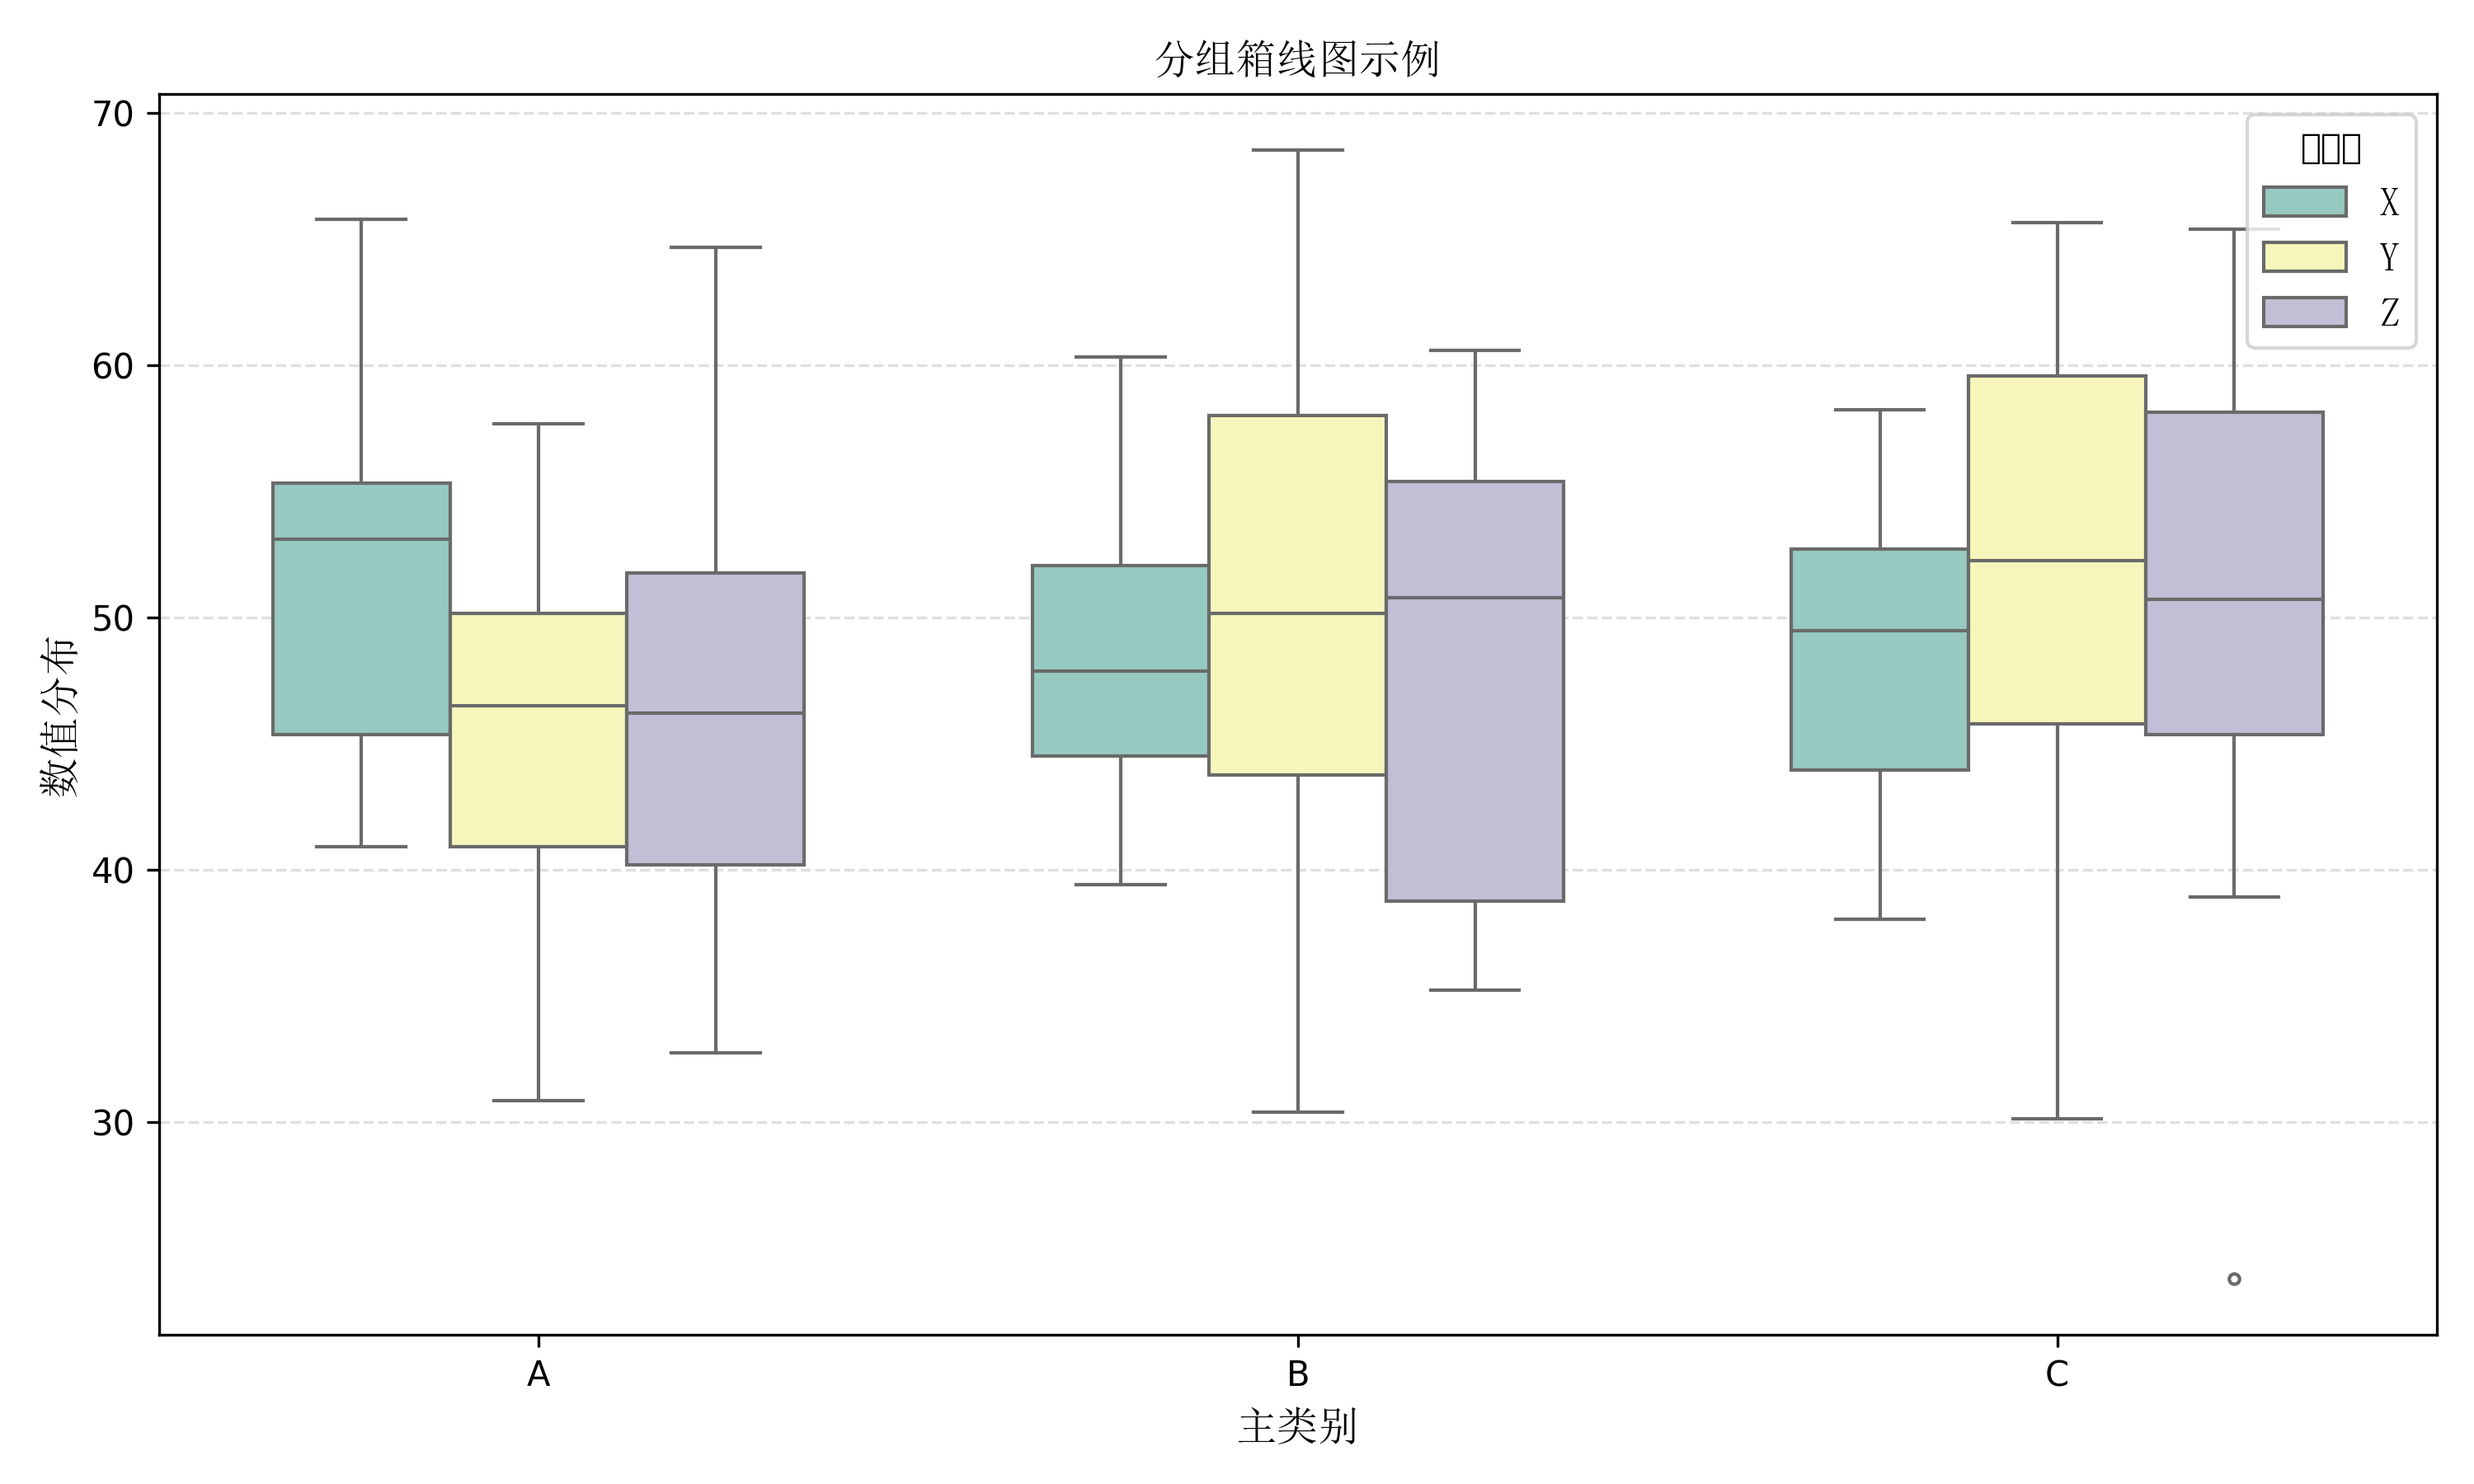
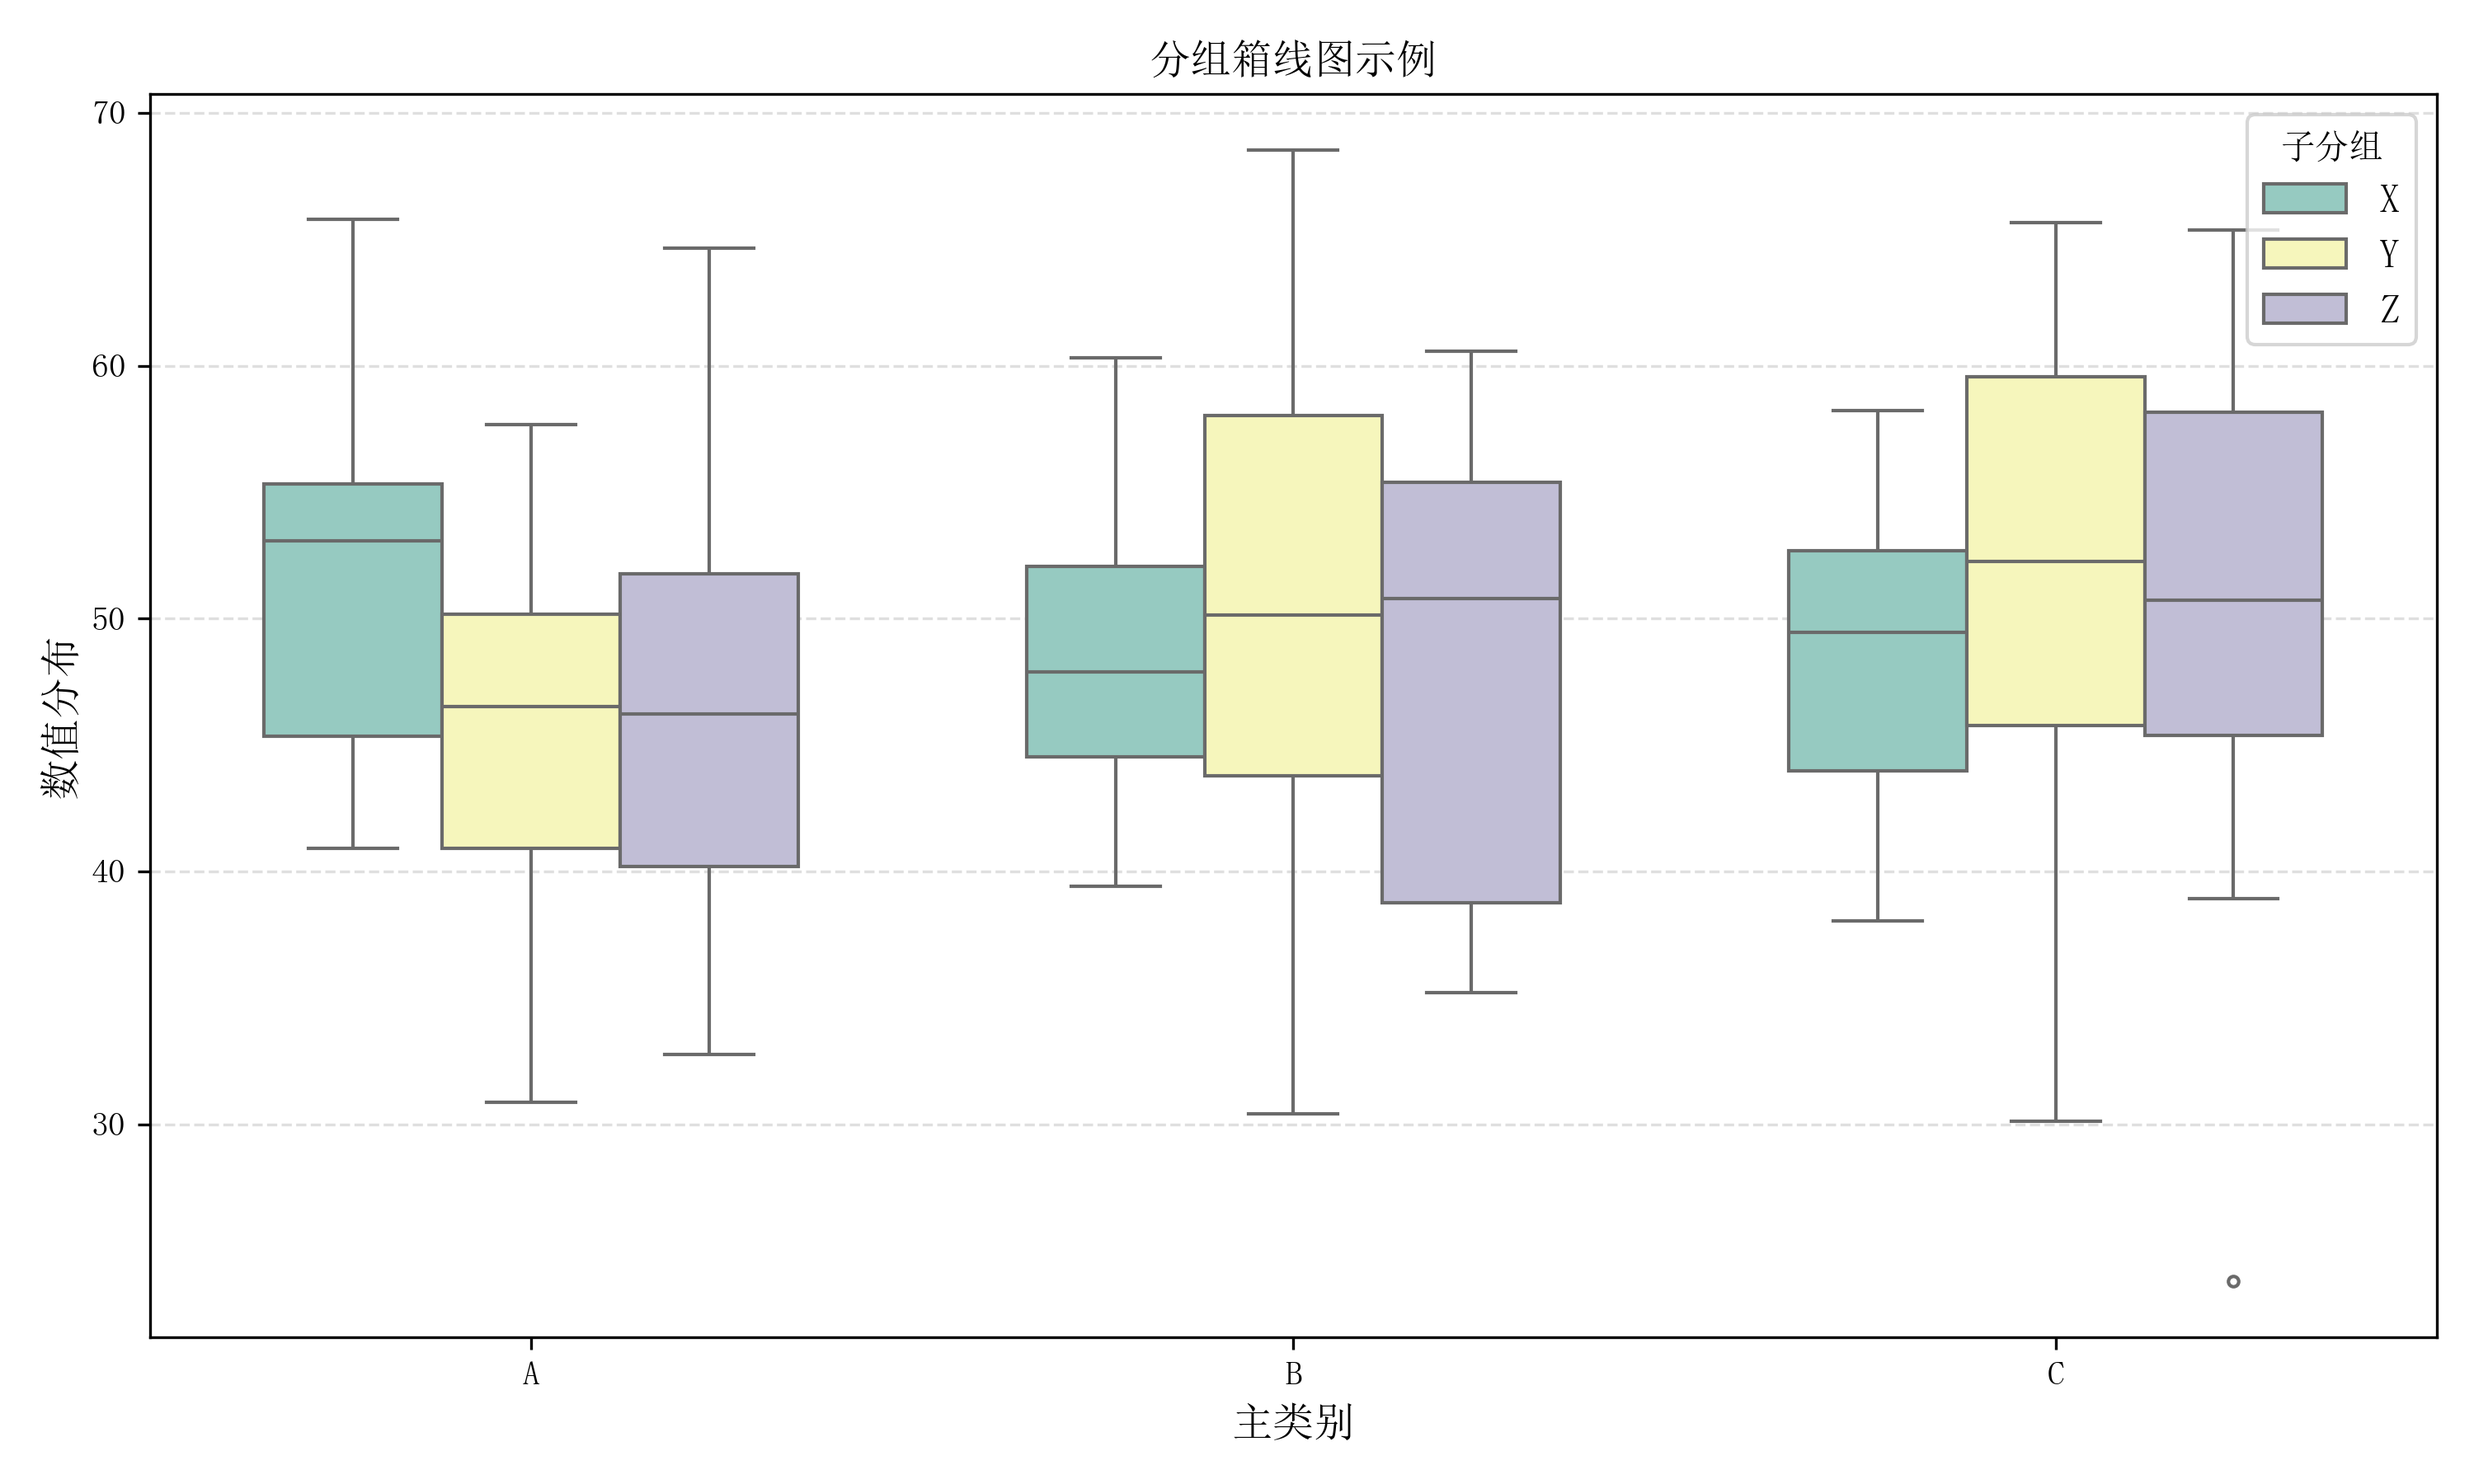
修改字体

diff --git a/test.py b/test.py
@@ -3,6 +3,12 @@ import seaborn as sns
 import pandas as pd
 import numpy as np
 from matplotlib.font_manager import FontProperties
+# 修正键名并指定字体
+plt.rcParams['font.sans-serif'] = ['simsun']
+plt.rcParams['axes.unicode_minus'] = False
+# 创建FontProperties对象，指定使用宋体
+font = FontProperties(fname=r'C:\Windows\Fonts\simsun.ttc', size=12)
+
 
 # 创建示例数据集（替换为您的实际数据）
 np.random.seed(42)
@@ -24,8 +30,7 @@ sns.boxplot(
     fliersize=3  # 异常点尺寸
 )
 
-# 创建FontProperties对象，指定使用宋体
-font = FontProperties(fname=r'C:\Windows\Fonts\simsun.ttc', size=12)
+
 
 # 添加图表装饰
 plt.title('分组箱线图示例', fontproperties=font)
